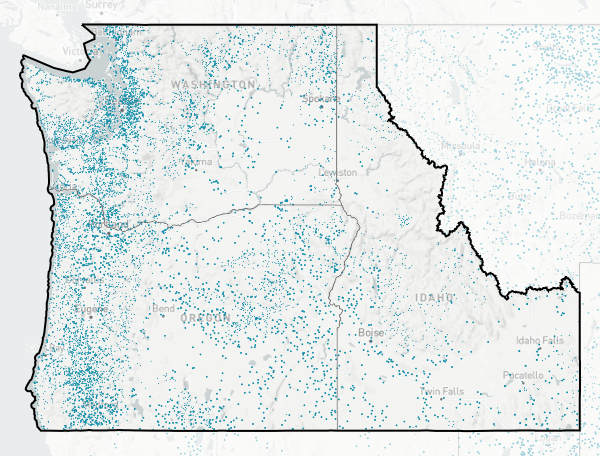
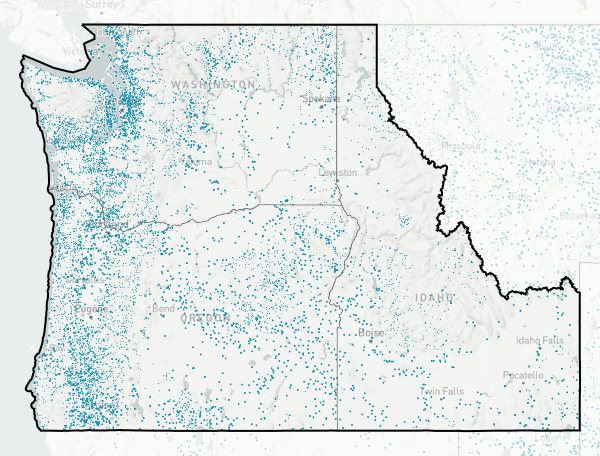
Update to latest data for version 2.6.0 for 2/16/2023 data

diff --git a/analysis/prep/species/calculate_spp_stats.py b/analysis/prep/species/calculate_spp_stats.py
@@ -24,8 +24,8 @@ data_dir = Path("data")
 bnd_dir = data_dir / "boundaries"
 src_dir = data_dir / "species/source"
 out_dir = data_dir / "species/derived"
-gdb = src_dir / "Species_Results_Tables_2022.gdb"
-rare_spp_layers = ["Southeast_Table", "Western_Table"]
+gdb = src_dir / "Species_Results_Tables_2023.gdb"
+layer = "All_States_HUC12_ScientificName_2023"
 trout_layer = "Trout_Filter_2022"
 
 
@@ -128,40 +128,31 @@ trout = trout.groupby(by=["HUC12", "SNAME"]).first().reset_index()
 
 
 ### Extract occurrence table from SARP
-merged = None
-for layer in rare_spp_layers:
-    print(f"Reading species occurrence data: {layer}")
+print(f"Reading species occurrence data: {layer}")
 
-    cols = [
-        "HUC12_Code",
-        "Species_Name",
-        "Common_Name",
-        "Historical",
-        "Federal_Status",
-        "State_Status",
-        "SGCN_Listing",
-    ]
-    if layer != "Western_Table":
-        cols.append("Regional_SGCN")
+cols = [
+    "HUC12_Code",
+    "Species_Name",
+    "Common_Name",
+    "Historical",
+    "Federal_Status",
+    "State_Status",
+    "SGCN_Listing",
+    "Regional_SGCN",
+]
 
-    df = read_dataframe(gdb, layer=layer, read_geometry=False)[cols].rename(
-        columns={
-            "HUC12_Code": "HUC12",
-            "Species_Name": "SNAME",
-            "Common_Name": "CNAME",
-            "Federal_Status": "federal",
-            "State_Status": "state",
-            "SGCN_Listing": "sgcn",
-            "Regional_SGCN": "regional",
-        }
-    )
+df = read_dataframe(gdb, layer=layer, read_geometry=False)[cols].rename(
+    columns={
+        "HUC12_Code": "HUC12",
+        "Species_Name": "SNAME",
+        "Common_Name": "CNAME",
+        "Federal_Status": "federal",
+        "State_Status": "state",
+        "SGCN_Listing": "sgcn",
+        "Regional_SGCN": "regional",
+    }
+)
 
-    if not "Regional_SGCN" in df.columns:
-        df["Regional_SGCN"] = ""
-
-    merged = append(merged, df)
-
-df = merged
 
 print("Processing species data")
 

diff --git a/analysis/prep/barriers/download.py b/analysis/prep/barriers/download.py
@@ -61,6 +61,7 @@ DAM_URLS = {
     "VA": "https://services.arcgis.com/QVENGdaPbd4LUkLV/ArcGIS/rest/services/Virginia_Dam_Inventory_11_12_2018/FeatureServer/0",
     "VI": "https://services.arcgis.com/QVENGdaPbd4LUkLV/ArcGIS/rest/services/USVI_Dam_Inventory_01242023/FeatureServer/0",
     "WA": "https://services.arcgis.com/QVENGdaPbd4LUkLV/arcgis/rest/services/Washington_Dam_Inventory_03022022/FeatureServer/0",
+    "WV": "https://services.arcgis.com/QVENGdaPbd4LUkLV/arcgis/rest/services/WV_Dams_SARP_03142022/FeatureServer/0",
     "WY": "https://services.arcgis.com/QVENGdaPbd4LUkLV/arcgis/rest/services/Wyoming_Dam_Inventory_03052021/FeatureServer/1",
 }
 
@@ -222,36 +223,6 @@ print("\n---- Downloading State Dams ----")
 download_start = time()
 df = asyncio.run(download_dams(TOKEN))
 print("Downloaded {:,} dams in {:.2f}s".format(len(df), time() - download_start))
-
-### Merge in WV, provided separately instead of as feature service
-print("---- Merging in WV from local GDB ----")
-wv = read_dataframe(
-    "data/barriers/source/OuterHUC4_Dams_2022.gdb",
-    layer="WVa_Dams_SARP_03142022",
-    force_2d=True,
-).to_crs(CRS)
-
-cols = [c for c in wv.columns if c in DAM_FS_COLS] + ["geometry"]
-wv = wv[cols].rename(
-    columns={
-        "SARPUniqueID": "SARPID",
-        "PotentialFeasibility": "Feasibility",
-        "Barrier_Name": "Name",
-        "Other_Barrier_Name": "OtherName",
-        "DB_Source": "Source",
-        "Year_Completed": "YearCompleted",
-        "Year_Removed": "YearRemoved",
-        "ConstructionMaterial": "Construction",
-        "PurposeCategory": "Purpose",
-        "StructureCondition": "Condition",
-        "OwnerType": "BarrierOwnerType",
-    }
-)
-wv["SourceState"] = "WV"
-
-df = pd.concat([df, wv], ignore_index=True, sort=False)
-
-print("Merged {:,} dams in analysis region states".format(len(df)))
 
 ix = df.geometry.isnull()
 if ix.sum():

diff --git a/analysis/post/create_barrier_tiles.py b/analysis/post/create_barrier_tiles.py
@@ -615,19 +615,20 @@ print(f"Created small barrier tiles in {time() - start:,.2f}s")
 ####################################################################
 print("\n\n-----------------Creating road crossing tiles------------------------\n\n")
 
-# rename sizeclass after reading
-cols = (
-    ["geometry", "id"]
-    + [c for c in ROAD_CROSSING_TILE_FIELDS if not c == "StreamSizeClass"]
-    + ["sizeclass"]
-)
 df = (
     gp.read_feather(
         barriers_dir / "road_crossings.feather",
-        columns=cols,
     )
     .to_crs("EPSG:4326")
-    .rename(columns={"COUNTYFIPS": "County", "sizeclass": "StreamSizeClass"})
+    .drop(columns=["County"])
+    .rename(
+        columns={
+            "COUNTYFIPS": "County",
+            "intermittent": "Intermittent",
+            "loop": "OnLoop",
+            "sizeclass": "StreamSizeClass",
+        }
+    )
 )
 
 # Set string field nulls to blank strings
@@ -655,7 +656,7 @@ tmp.loc[tmp.StreamOrder == -1, "StreamOrder"] = 0
 df["packed"] = pack_bits(tmp, ROAD_CROSSING_PACK_BITS)
 df = df.drop(columns=pack_cols)
 
-df = to_lowercase(df)
+df = to_lowercase(df[ROAD_CROSSING_TILE_FIELDS + ["geometry"]])
 
 outfilename = tmp_dir / "road_crossings.fgb"
 mbtiles_filename = out_dir / "road_crossings.mbtiles"

diff --git a/analysis/export/estimate_dams.py b/analysis/export/estimate_dams.py
@@ -97,10 +97,14 @@ df = df.join(state_join)
 df = df.loc[df.state.isin(STATES)].copy()
 
 write_dataframe(df.loc[~has_dam], out_dir / "estimated_dam_lines.fgb")
-write_dataframe(df.loc[~has_dam], tmp_dir / "estimated_dam_lines.shp")
+write_dataframe(
+    df.loc[~has_dam], tmp_dir / "estimated_dam_lines.gdb", driver="OpenFileGDB"
+)
 
 write_dataframe(df.loc[has_dam], out_dir / "estimated_dam_lines_with_dam.fgb")
-write_dataframe(df.loc[has_dam], tmp_dir / "estimated_dam_lines_with_dam.shp")
+write_dataframe(
+    df.loc[has_dam], tmp_dir / "estimated_dam_lines_with_dam.gdb", driver="OpenFileGDB"
+)
 
 
 df = (
@@ -109,10 +113,12 @@ df = (
     .drop(columns=["geometry"])
 )
 write_dataframe(df.loc[~has_dam], out_dir / "estimated_dams.fgb")
-write_dataframe(df.loc[~has_dam], tmp_dir / "estimated_dams.shp")
+write_dataframe(df.loc[~has_dam], tmp_dir / "estimated_dams.gdb", driver="OpenFileGDB")
 
 write_dataframe(df.loc[has_dam], out_dir / "estimated_dams_with_dam.fgb")
-write_dataframe(df.loc[has_dam], tmp_dir / "estimated_dams_with_dam.shp")
+write_dataframe(
+    df.loc[has_dam], tmp_dir / "estimated_dams_with_dam.gdb", driver="OpenFileGDB"
+)
 
 
 print(f"Total elapsed {time() - start:,.2f}s")

diff --git a/api/constants.py b/api/constants.py
@@ -457,26 +457,29 @@ ROAD_CROSSING_API_FIELDS = ROAD_CROSSING_CORE_FIELDS
 
 # Manually-selected subset of fields to keep size small
 ROAD_CROSSING_TILE_FIELDS = [
-    "SARPID",
     "Source",
-    "Name",
     "County",
     "State",
     "HUC8",
     "HUC12",
     "Road",
     "Stream",
-    "crossingtype",
-    "OwnerType",
     "TESpp",
     "RegionalSGCNSpp",
     "StateSGCNSpp",
-    "Trout",
     "SalmonidESU",
     # NOTE: all retained road crossings are snapped
-    "StreamOrder",
     "StreamSizeClass",
-    "intermittent",
+    "packed",
+    # merged into separate field
+    # "SARPID",
+    # "Name",
+    # included in packed bits
+    # "StreamOrder",
+    # "OwnerType",
+    # "crossingtype",
+    # "Trout",
+    # "Intermittent",
 ]
 
 # Fields that are used for filtering other barrier types can be bit-packed instead

diff --git a/analysis/export/export_barriers.py b/analysis/export/export_barriers.py
@@ -15,9 +15,7 @@ from analysis.export.lib.domains import unpack_domains
 EXPORT_FIELDS = {
     "dams": DAM_EXPORT_FIELDS,
     "small_barriers": SB_EXPORT_FIELDS,
-    "dams_small_barriers": unique(
-        ["BarrierType"] + DAM_EXPORT_FIELDS + SB_EXPORT_FIELDS
-    ),
+    "combined": unique(["BarrierType"] + DAM_EXPORT_FIELDS + SB_EXPORT_FIELDS),
 }
 
 
@@ -25,7 +23,7 @@ data_dir = Path("data/api")
 out_dir = Path("/tmp/sarp")
 out_dir.mkdir(exist_ok=True)
 
-barrier_type = "dams"  #  one of "dams", "small_barriers", "dams_small_barriers"
+barrier_type = "dams"  #  one of "dams", "small_barriers", "combined"
 suffix = ""  # use to set a filename suffix if filtering further
 
 df = pd.read_feather(data_dir / f"{barrier_type}.feather")

diff --git a/analysis/prep/barriers/prep_dams.py b/analysis/prep/barriers/prep_dams.py
@@ -608,8 +608,8 @@ df.loc[ix, "Name"] = df.loc[ix].OtherName
 df.loc[df.Source.str.count("Amber Ignatius") > 0, "snap_group"] = 2
 
 # Identify dams estimated from waterbodies
-ix = df.Source.isin(
-    ["Estimated Dams OCT 2021", "Estimated Dams Summer 2022", "Estimated Dams JAN 2023"]
+ix = df.Source.str.lower().isin(
+    ["estimated dams oct 2021", "estimated dams summer 2022", "estimated dams jan 2023"]
 )
 df.loc[ix, "snap_group"] = 3
 df.loc[ix, "Name"] = "Estimated dam"

diff --git a/setup.py b/setup.py
@@ -13,7 +13,7 @@ with open(path.join(here, "README.md"), encoding="utf-8") as f:
 setup(
     name="sarp-connectivity",
     # version must be kept in sync with ui/package.json
-    version="2.5.0",
+    version="2.6.0",
     description="Aquatic Barrier Inventory Visualization & Prioritization Tool",
     long_description=long_description,
     long_description_content_type="text/markdown",

diff --git a/analysis/post/README.md b/analysis/post/README.md
@@ -8,7 +8,7 @@ Vector tiles are created to display the summary statistics by summary unit, as w
 
 Run `analysis/post/extract_summary_stats.py` to generate an overall summary file used by the user interface in the tool.
 
-Run `analysis/post/create_region_maps.py` to generate thumbnails of the ranked dams in each region.
+Run `analysis/post/create_region_maps.py` to generate thumbnails of the ranked dams in each region. This must be done after creating tilesets below.
 
 Note: generating maps uses `pymgl` to render the maps, which is only available for MacOS or Ubuntu 20.04.
 
